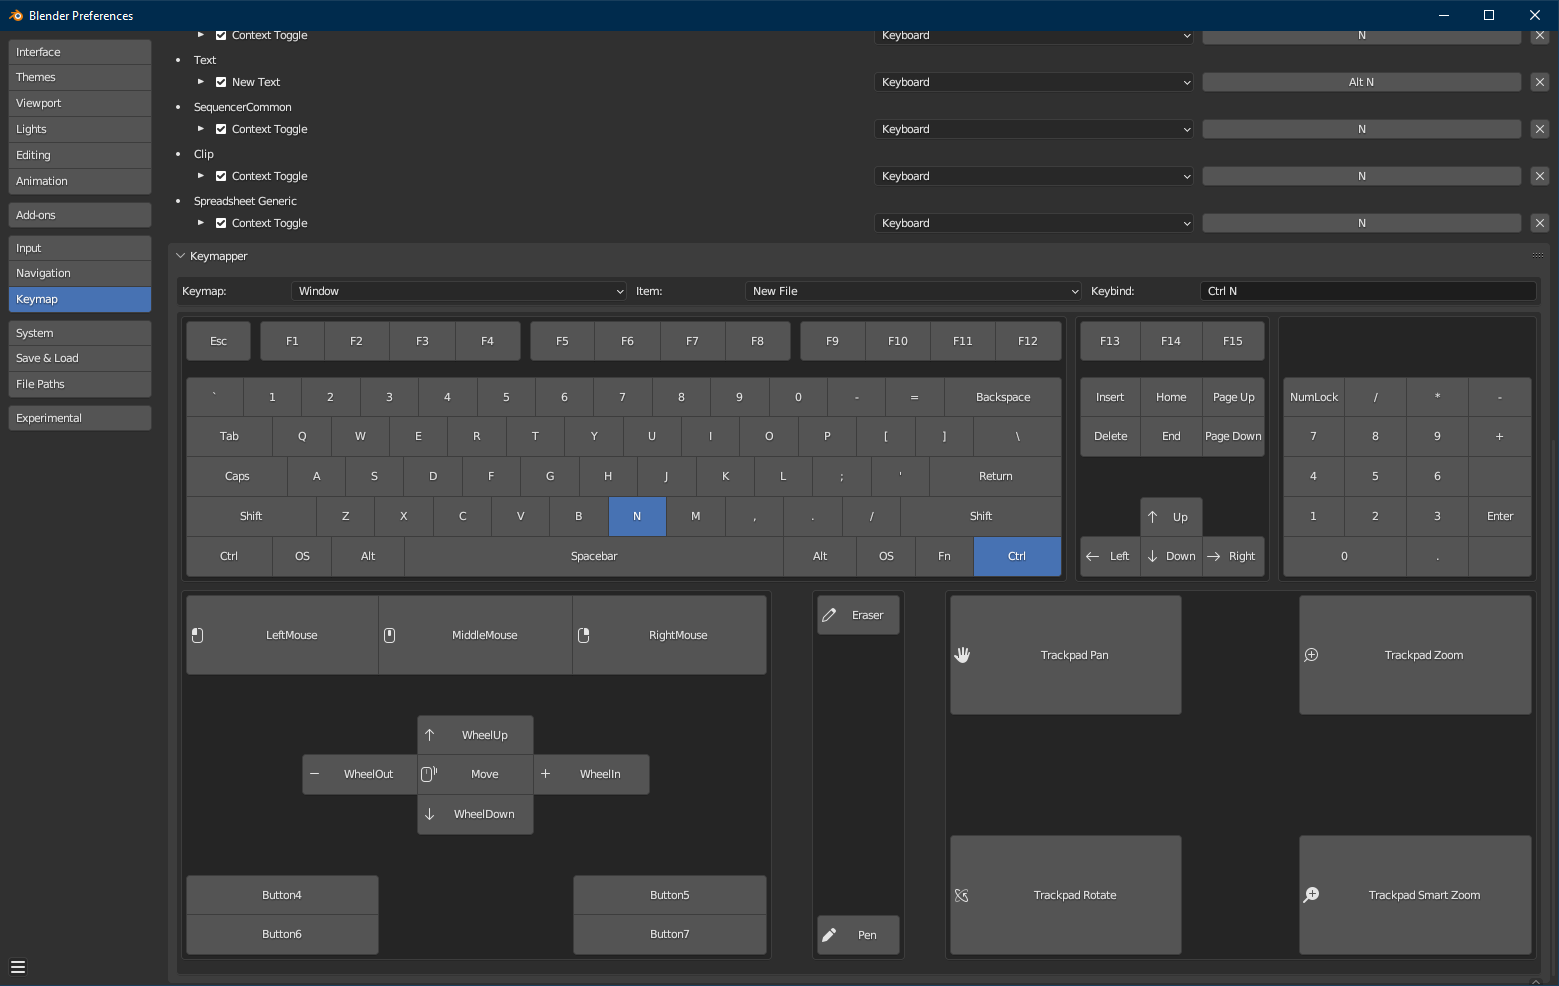
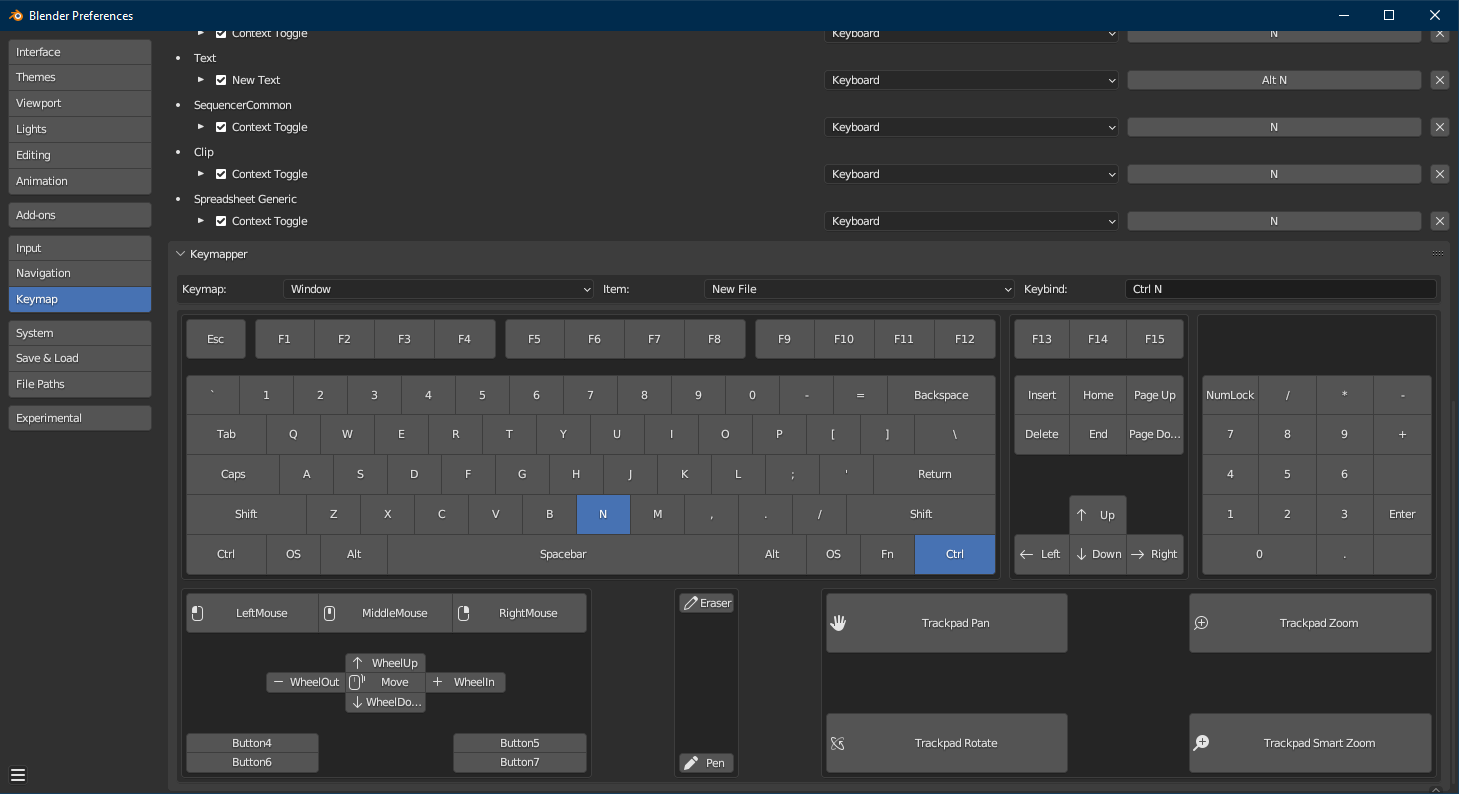
Tweaked Mouse row layout
After uploading the screenshot yesterday I felt like the mouse row was disproportionately huge, this is just a small tweak to shrink it vertically, space out the mouse, pen and trackpad, and widen the trackpad slightly, so that the mouse doesn't splay so wide when the user adjusts the screen.
Still figuring out a layout for the NDOF controls, I think this will take a little pen and paper work first!

diff --git a/UI.py b/UI.py
@@ -293,16 +293,28 @@ class KeymapperPanel(bpy.types.Panel):
 
         # Mouse and Tablet Row
         mouse_row = key_box.row(align=alignment)
-        mouse_row.scale_y = 2
+        # mouse_row.scale_y = 2
 
         # Mouse Box
         box = mouse_row.box()
         column = box.column(align=alignment)
         row = column.row(align=alignment)
         row.scale_y = 2
-        row.operator("preferences.keymapper", text="LeftMouse", icon='MOUSE_LMB')
-        row.operator("preferences.keymapper", text="MiddleMouse", icon='MOUSE_MMB')
-        row.operator("preferences.keymapper", text="RightMouse", icon='MOUSE_RMB')
+        row.operator(
+            "preferences.keymapper",
+            text="LeftMouse",
+            icon='MOUSE_LMB'
+        )
+        row.operator(
+            "preferences.keymapper",
+            text="MiddleMouse",
+            icon='MOUSE_MMB'
+        )
+        row.operator(
+            "preferences.keymapper",
+            text="RightMouse",
+            icon='MOUSE_RMB'
+        )
         row = column.row(align=alignment)
         row.label(text="")
         row.label(text="")
@@ -322,7 +334,11 @@ class KeymapperPanel(bpy.types.Panel):
         row = column.row(align=alignment)
         row.label(text="")
         row.label(text="")
-        row.operator("preferences.keymapper", text="WheelDown", icon='SORT_ASC')
+        row.operator(
+            "preferences.keymapper",
+            text="WheelDown",
+            icon='SORT_ASC'
+        )
         row.label(text="")
         row.label(text="")
         row = column.row(align=alignment)
@@ -340,14 +356,18 @@ class KeymapperPanel(bpy.types.Panel):
 
         # Spacer
         column = mouse_row.column(align=alignment)
-        column.scale_x = 0.5
+        # column.scale_x = 0.5
         column.label(text='')
 
         # Pen Box
         box = mouse_row.box()
         box.scale_x = 0.75
         column = box.column(align=alignment)
-        column.operator("preferences.keymapper", text='Eraser', icon='OUTLINER_DATA_GP_LAYER')
+        column.operator(
+            "preferences.keymapper",
+            text='Eraser',
+            icon='OUTLINER_DATA_GP_LAYER'
+        )
         column.label(text='')
         column.label(text='')
         column.label(text='')
@@ -355,25 +375,37 @@ class KeymapperPanel(bpy.types.Panel):
         column.label(text='')
         column.label(text='')
         column.label(text='')
-        column.operator("preferences.keymapper", text='Pen', icon='GREASEPENCIL')
+        column.operator(
+            "preferences.keymapper",
+            text='Pen',
+            icon='GREASEPENCIL'
+        )
 
         # Spacer
         column = mouse_row.column(align=alignment)
-        column.scale_x = 0.5
+        # column.scale_x = 0.5
         column.label(text='')
 
         # Tablet Box
         box = mouse_row.box()
-        box.scale_x = 2
+        box.scale_x = 3
         box.scale_y = 3
         column = box.column(align=alignment)
         row = column.row(align=alignment)
         # row.scale_y = 2
-        row.operator("preferences.keymapper", text="Trackpad Pan", icon='VIEW_PAN')
+        row.operator(
+            "preferences.keymapper",
+            text="Trackpad Pan",
+            icon='VIEW_PAN'
+        )
         row.scale_x = 0.5
         row.label(text='')
         row.scale_x = 1
-        row.operator("preferences.keymapper", text="Trackpad Zoom", icon='ZOOM_IN')
+        row.operator(
+            "preferences.keymapper",
+            text="Trackpad Zoom",
+            icon='ZOOM_IN'
+        )
         row = column.row(align=alignment)
         row.label(text="")
         row.scale_x = 0.5
@@ -382,8 +414,16 @@ class KeymapperPanel(bpy.types.Panel):
         row.label(text="")
         row = column.row(align=alignment)
         # row.scale_y = 2
-        row.operator("preferences.keymapper", text="Trackpad Rotate", icon='ORIENTATION_GIMBAL')
+        row.operator(
+            "preferences.keymapper",
+            text="Trackpad Rotate",
+            icon='ORIENTATION_GIMBAL'
+        )
         row.scale_x = 0.5
         row.label(text='')
         row.scale_x = 1
-        row.operator("preferences.keymapper", text="Trackpad Smart Zoom", icon='VIEW_ZOOM')
+        row.operator(
+            "preferences.keymapper",
+            text="Trackpad Smart Zoom",
+            icon='VIEW_ZOOM'
+        )

diff --git a/__init__.py b/__init__.py
@@ -6,7 +6,7 @@ from . Operators import KeymapperOperator
 bl_info = {
     "name": "Keymapper",
     "author": "Spectral Vectors",
-    "version": (0, 0, 8),
+    "version": (0, 0, 9),
     "blender": (2, 80, 0),
     "location": "Preferences > Keymap",
     "description": "Graphical Keymap Editor",
